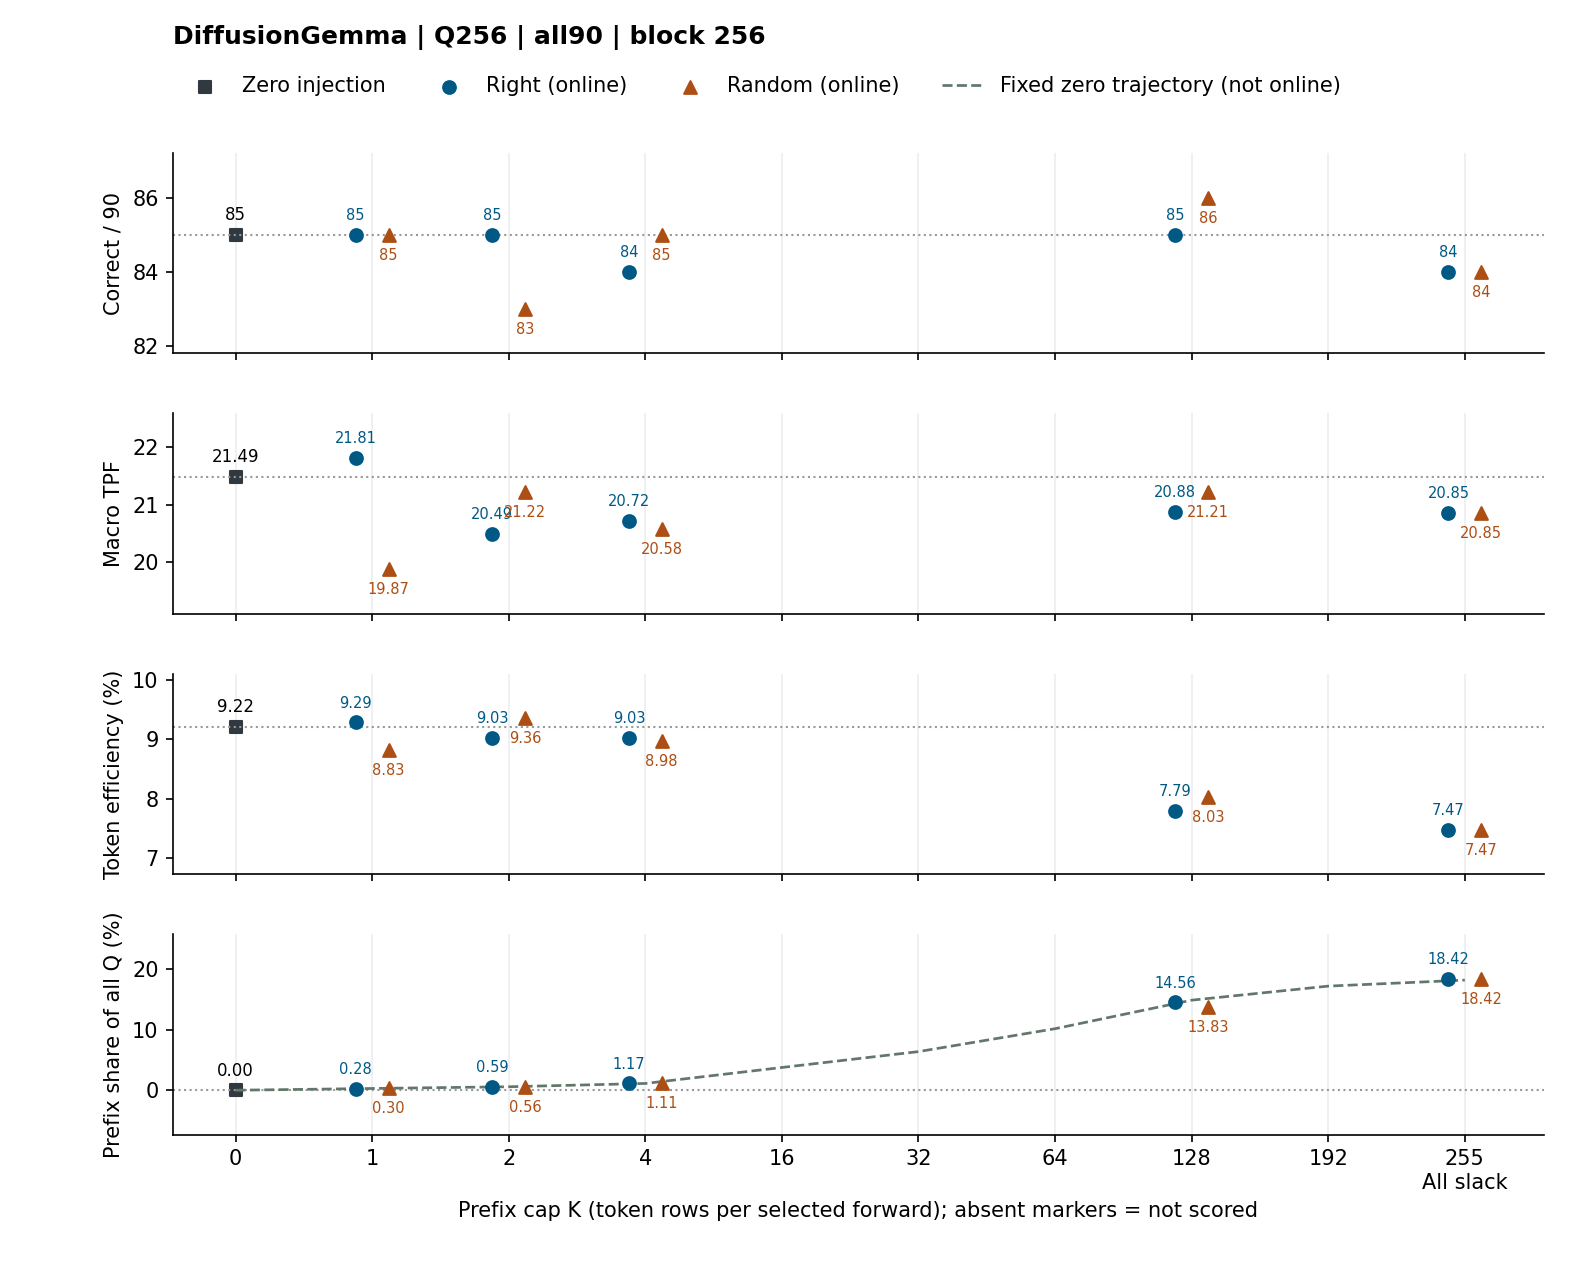
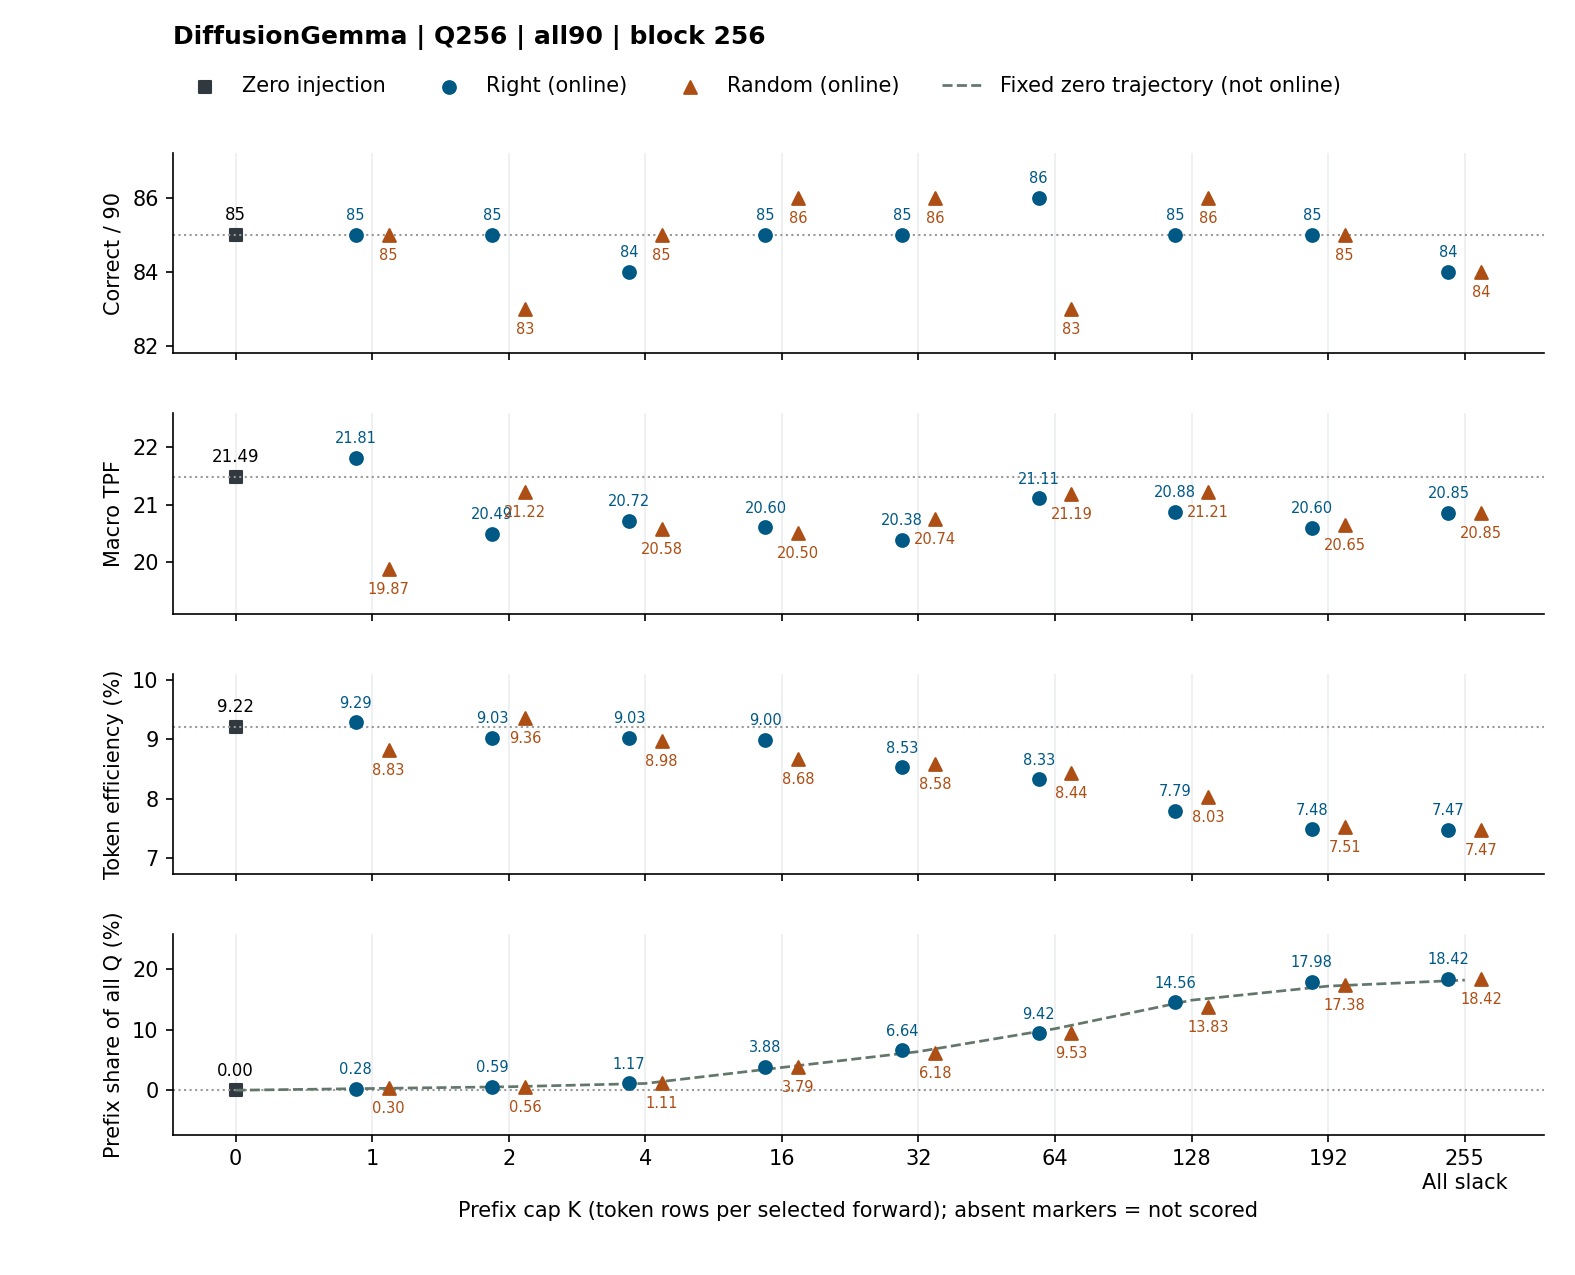
Report full Q256 ratio sweep and join original-30 historical comparisons

diff --git a/experiments/t2t/prefix_window/historical30.py b/experiments/t2t/prefix_window/historical30.py
@@ -44,6 +44,28 @@ def pack30(rows, ids, prefix="", historical=False):
     return packed, logical
 
 
+def summary_sources(folder, private):
+    sources = {p.name: p for p in folder.glob("*-q*.csv")}
+    # Large Gemma sweeps are published as one aggregate table. Resolve only
+    # its published arms, not arbitrary in-progress files from the private run.
+    listing = folder / "gemma-ratio-online.csv"
+    if listing.exists():
+        for row in read(listing):
+            if row["cohort"] != "original30":
+                continue
+            q, k, selector = int(row["q"]), int(row["k"]), row["selector"]
+            if selector not in ("right", "random") or not 0 < k < q:
+                raise ValueError("Unknown published ratio arm")
+            name = f"gemma-q{q}-slack-k{k}-{selector}.csv"
+            path = sources.setdefault(name, private / name)
+            original, = [s for s in read(path) if s["scope"] == "all" and s["window"] == "30"]
+            if any(original[a] != row[b] for a, b in
+                   (("arm_correct", "correct"), ("arm_physical_Q", "full_generation_q"),
+                    ("arm_macro_tpf", "tpf"), ("baseline_correct", "zero_correct"))):
+                raise ValueError(f"Ratio listing disagrees with paired score: {name}")
+    return sorted(sources.values(), key=lambda p: p.name)
+
+
 def pairs(private):
     old, new = (json.loads((ROOT / f"benchmarks/frozen{n}/manifest.json").read_text()) for n in (30, 90))
     if (old["samples"] != new["samples"][:30] or old["samples_sha256"] != new["original_samples_sha256"]
@@ -56,7 +78,7 @@ def pairs(private):
             archive[r["model"], r["policy"], r["role"], r["run"]].append(r)
     refs = {k: pack30(rs, ids, historical=True) for k, rs in archive.items()}
     arms = {}
-    for path in sorted(HERE.glob("*-q*.csv")):
+    for path in summary_sources(HERE, private):
         rows = [r for r in read(path) if r.get("scope") == "all" and r["window"] == "30"]
         if not rows:
             continue

diff --git a/experiments/t2t/prefix_window/README.md b/experiments/t2t/prefix_window/README.md
@@ -29,6 +29,8 @@
 
 K128 随机相对零组救回 3 题、丢 2 题；TPF 和效率均较低。K255 两种选法分别跑了 90 题，逐题输出 token 序列、生成 forward 数和物理 Q 均相同，不能当作两份独立证据。填满现有 forward 也不等价于回到原生完整推理流程。见 [Q256 在线图，空白配置表示未归档](figures/gemma-ratio-q256.png) 和 [绘图脚本](plot_ratio.py)。
 
+**Q256 扩展已完整计分**：K=16/32/64/128/192/255 各两种选法，12 个配置各 90/90。K16 随机、K32 随机、K64 右端、K128 随机各为 86/90；四者中最高 TPF 是 K128 随机的 21.213，仍低于零组的 21.490。所有 12 个新增配置的宏平均 TPF 均低于零组。这个结果限定在 Q256、当前候选池、同一批 90 题及只用空位的策略。其他预算不能由此推断。上述配置对历史同题 IBS、OBS、Native、B3 和 FlowBlock 的原 30 题比较见 [历史对照](historical30.csv)；不与 90 题数据混用。
+
 ## 已核验的数据
 
 [原生 90 题结果，含每个数据集](native90.csv)。两个模型各 90 条原生参考全部通过校验，旧 30 逐字节保留。LLaDA 新增 60 的首次运行未导出逐步日志，以同题同种子补录；两次运行 60/60 的返回 token 序列、N、F 和物理 Q 相同。原 30 / 新 60 / 全 90：LLaDA 原生答对 **26 / 49 / 75**，TPF **5.728 / 5.652 / 5.677**；Gemma 原生答对 **28 / 57 / 85**，TPF **24.284 / 26.123 / 25.510**。原生是全宽质量锚点，不是同 Q 不加回组。
